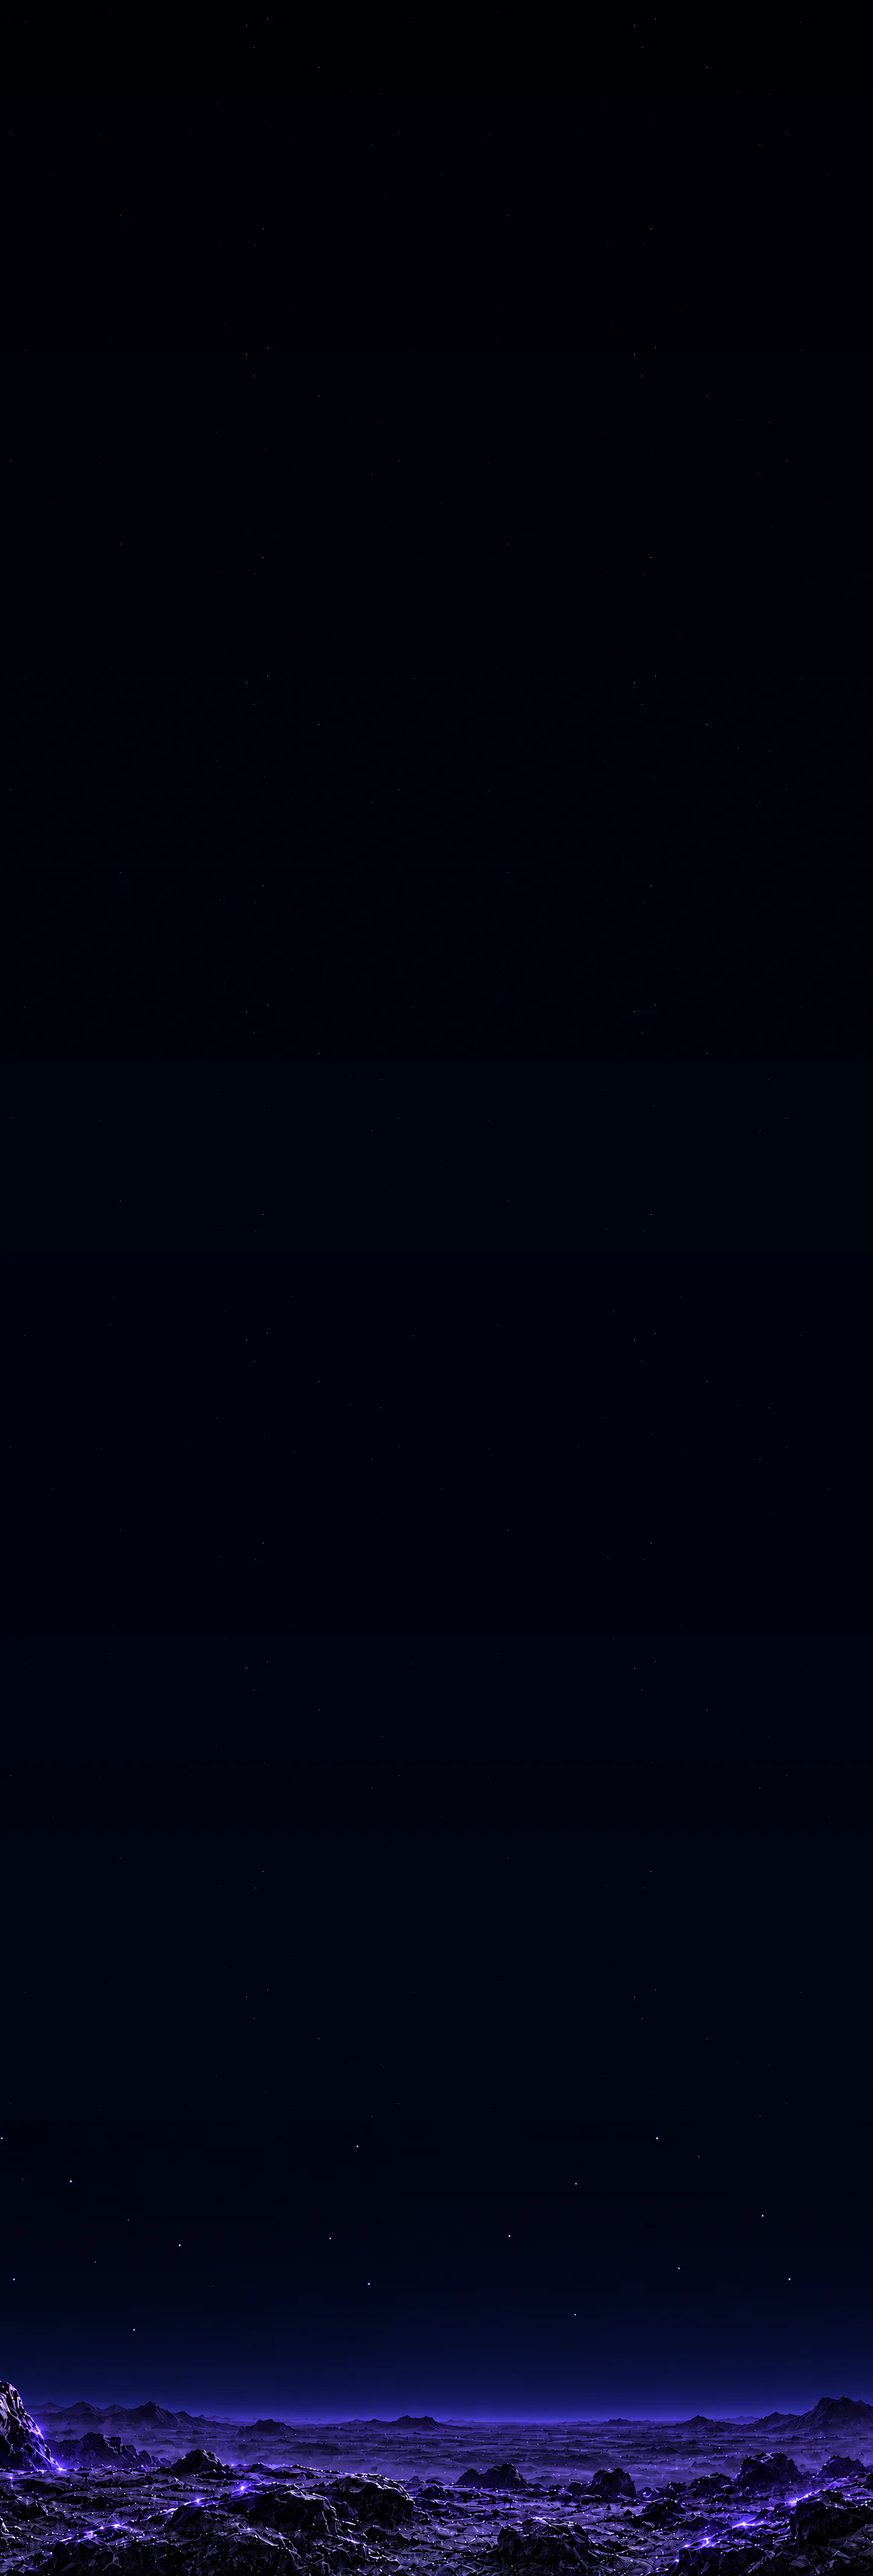
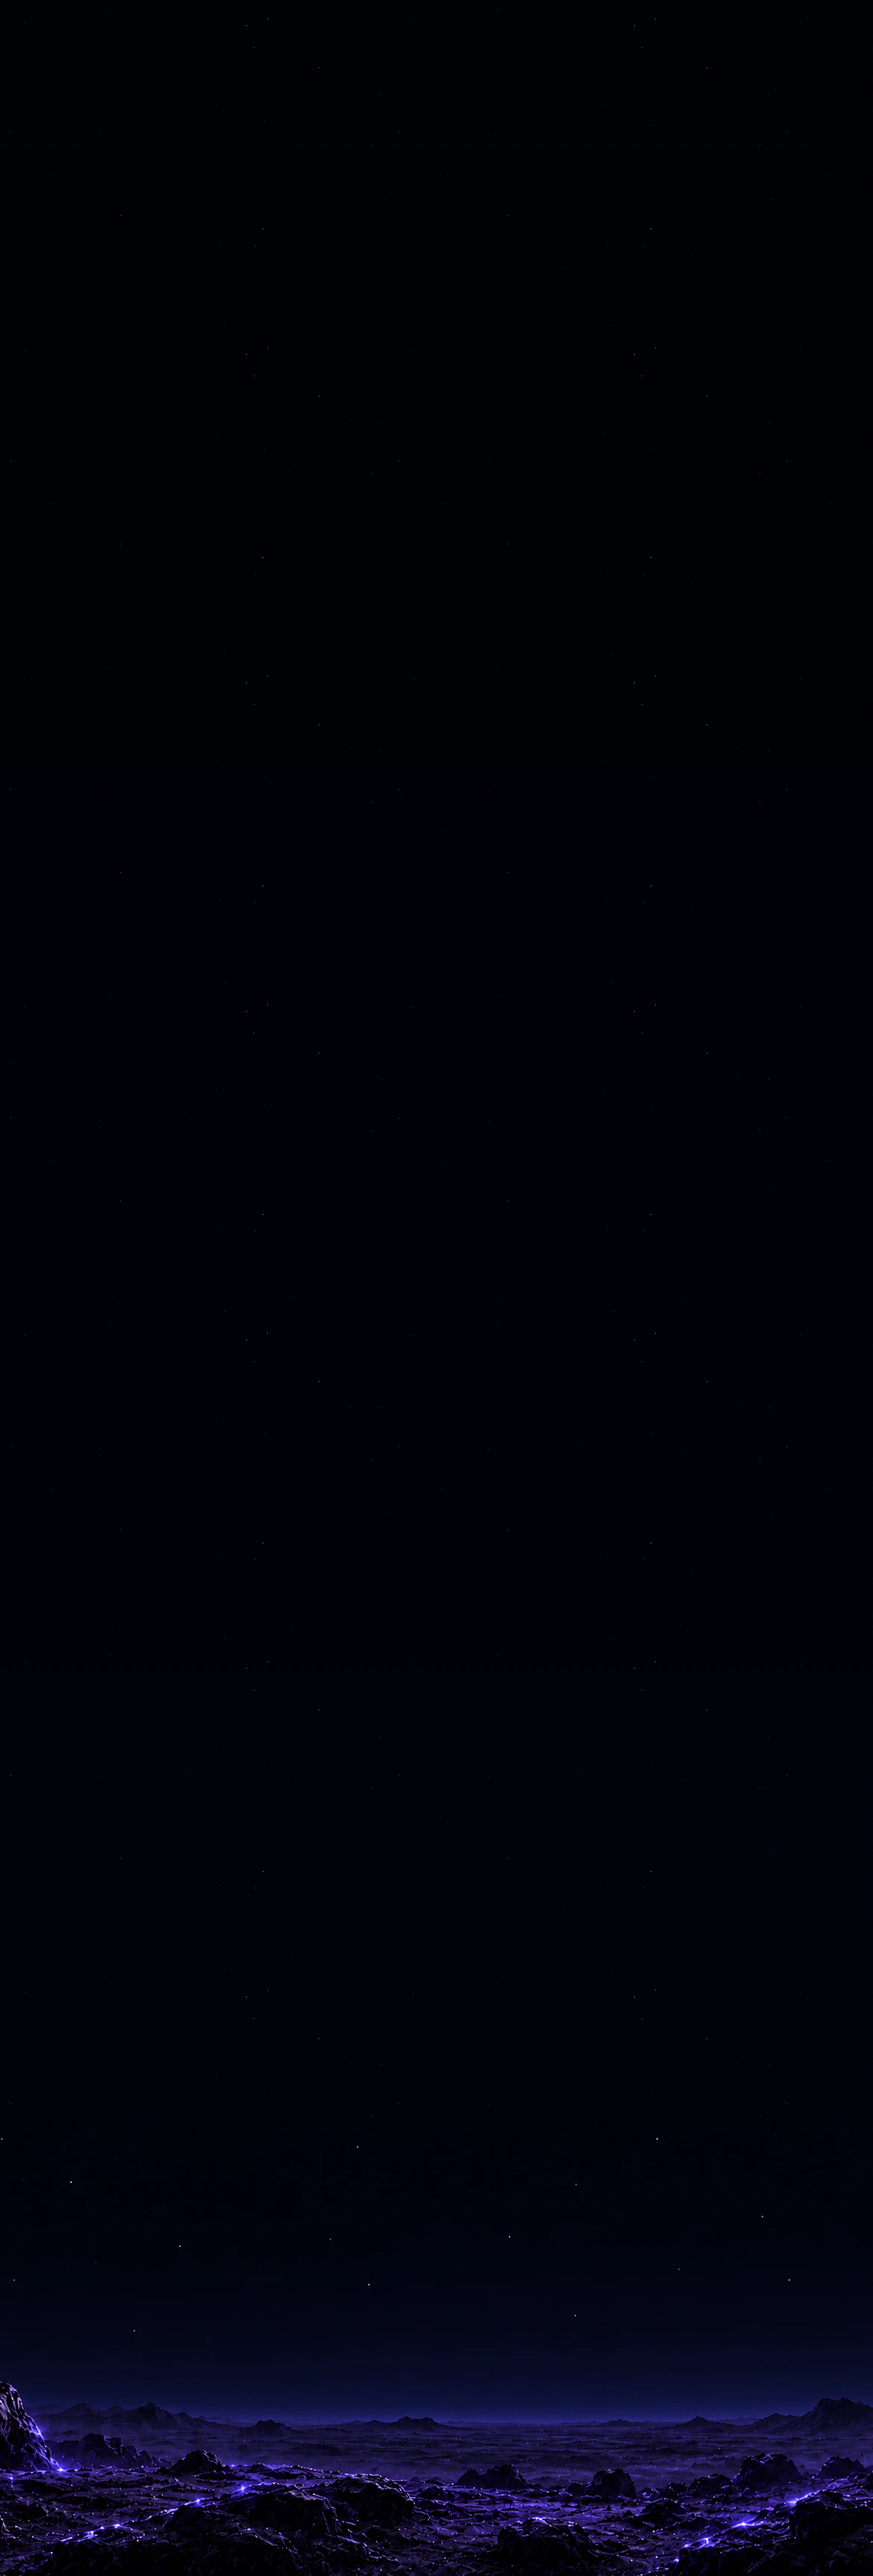
feat: replace footer backdrop with high-resolution WebP variants

Changed region(s): [[0.0, 0.8994, 1.0, 1.0]]

diff --git a/docs/assets.md b/docs/assets.md
@@ -751,25 +751,26 @@ score were unchanged when this section was added.
 - Row 2: 1px divider `rgb(203 197 255 / 30%)` at y=463.69, then the legal bar at
   y=484.69 — copyright at x=80 (320 wide) and Terms/Privacy/Cookies at x=640.72
   (218 wide), Manrope Regular 16/24.
-- The background comes from the supplied HD Figma image
-  (`assets/assets home page/footer/footerhd.png`, 2017 × 780 — same composition
-  as `assets/background/hd/footer.png` but a sharper, brighter render). It is
-  encoded by `scripts/generate-footer-background.mjs` (`npm run assets:footer`)
-  to the shared lossy `public/images/backgrounds/footer.webp` (q88, MAE 1.21);
-  the earlier lossless 1440/2880 exports under `public/images/footer/` were
-  removed on 26 Sep 2026. `scripts/generate-backgrounds.mjs` no longer touches
-  the footer. The supplied artwork sits 2px (4px at 2×) right of the fill baked
-  into `Footer.png`; that sub-pixel-derived offset is baked into the export so
-  the art still aligns with the reference. `instagram.svg` and `linkedin.svg`
-  are the Figma social vectors. Text, borders, divider, and social frames are
-  HTML/CSS; no flattened screenshot is used as the interface.
-- **Phone portrait backdrop (26 Sep 2026):** the 2.59:1 landscape cannot cover a
+- **Background update (29 Sep 2026, user-supplied):** the footer now uses
+  `assets/assets home page/footer/Gambar Footer(2).png` (7200 × 2780, exactly
+  5× the 1440 × 556 footer frame). This supersedes the 2017 × 780
+  `footerhd.png` background and the old background pixels in `Footer.png`; the
+  old PNG remains the source for text and layout measurements. `npm run
+assets:footer` converts the new source to q90 WebP variants at 1440, 2880,
+  5760 and 7200 pixels wide (83, 191, 444 and 610 KB). `Footer.astro` uses
+  `srcset`/`sizes="100vw"` to select them by viewport and DPR. The decoded WebP
+  MAE against the source resized to each width is 1.01, 0.76, 0.63 and 0.58/255;
+  the full 7200px export is retained for large retina screens. The source is
+  fully opaque despite its PNG alpha channel. Text, borders, divider, and social
+  frames remain HTML/CSS; `instagram.svg` and `linkedin.svg` are the Figma
+  vectors. `scripts/generate-backgrounds.mjs` does not touch the footer.
+- **Phone portrait backdrop (updated 29 Sep 2026):** the 2.59:1 landscape cannot cover a
   portrait footer (≈390 × 1033 at ≤600px) without `object-fit: cover` zooming
   ~1.33× and stretching to 1170 device px at DPR 3 (~4× upscale → visibly soft).
   `Footer.astro` now has a `<source media="(max-width: 600px)">` swapping to a
   generated portrait derivative `public/images/backgrounds/footer-mobile.webp`
-  (1170 × 3450, q84, 86 KB): an extended star sky (gradient zenith→seam with
-  ±1 dither, the site's `starfield-base.png` tiled in `screen`) with the
+  (1170 × 3450, q90, 77 KB) from the new 7200px source: an extended star sky (gradient zenith→seam with
+  deterministic ±1 dither, the site's `starfield-base.png` tiled in `screen`) with the
   landscape scaled `MW × 1.35` and anchored to the bottom edge
   (`.backdrop img { object-position: center bottom }` ≤600px). Desktop keeps the
   full landscape at native resolution, so `verify.mjs` footer geometry/diff is

diff --git a/docs/ai-handoff.md b/docs/ai-handoff.md
@@ -19,6 +19,10 @@ Semua yang kamu butuhkan dalam ~30 detik. Detail/history ada di bawah.
   transform; halo luar memakai radial gradient blur, outer card tetap memegang
   lift, grounding shadow, dan ring. Lihat
   `docs/assets.md` §"Domain card hover corner fix".
+- **Footer background lokal 29 Sep 2026:** gambar baru `Gambar Footer(2).png`
+  (7200×2780) menggantikan `footerhd.png`. `npm run assets:footer` menghasilkan
+  WebP q90 responsif 1440/2880/5760/7200w + varian portrait HP 1170×3450;
+  footer memakai `srcset`, layout teks tetap. Lihat `docs/assets.md` §Footer.
 - **Runtime deps sengaja cuma** `astro` + `gsap` + `three`. Jangan tambah library
   lain tanpa tanya; lazy-import yang berat.
 - **Commit terbaru (live di testing + production, HEAD `4fe4c19`):**
